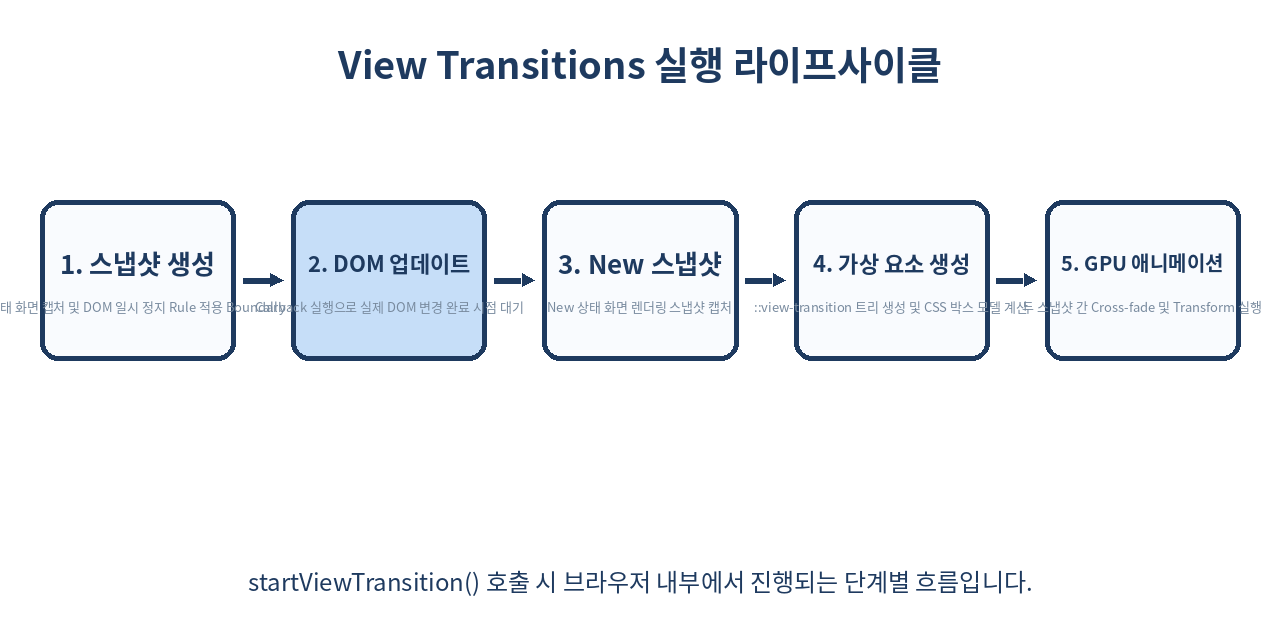
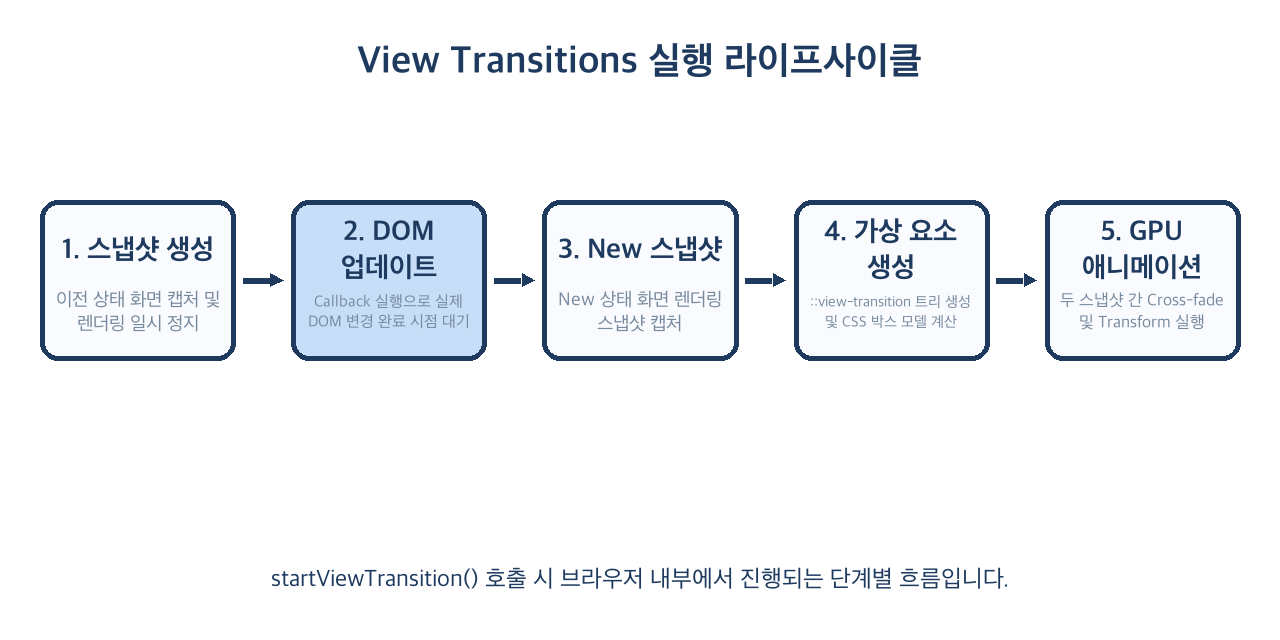
자동 발행 개선: 다이어그램 줄바꿈, 짧은 본문 보강 요청, pycache 제외
- draw_kit: wrap_text로 박스 밖 글자 넘침 방지, View Transitions 흐름도 재생성
- auto_post: 본문 15KB 미만이면 2차 요청으로 확장, 이미지 명세 로그 출력
- .gitignore 추가 및 커밋된 __pycache__ 제거

diff --git a/scripts/draw_kit.py b/scripts/draw_kit.py
@@ -119,6 +119,37 @@ def fit_size(d, s, max_w, size, bold=False, min_size=14, spacing=0):
     return size
 
 
+def wrap_text(d, cx, cy, s, max_w, size, color='navy', bold=False, min_size=15, max_lines=2, line_gap=1.3):
+    """max_w 안에 들어가도록 줄바꿈(최대 max_lines줄) + 축소, 그래도 넘치면 말줄임."""
+    def split(sz):
+        f = font(sz, bold)
+        lines, cur = [], ''
+        for word in s.split(' '):
+            t = (cur + ' ' + word).strip()
+            if d.textlength(t, font=f) <= max_w or not cur:
+                cur = t
+            else:
+                lines.append(cur)
+                cur = word
+        lines.append(cur)
+        return lines, f
+    sz = size
+    while True:
+        lines, f = split(sz)
+        if (len(lines) <= max_lines and all(d.textlength(l, font=f) <= max_w for l in lines)) or sz <= min_size:
+            break
+        sz -= 1
+    lines = lines[:max_lines]
+    for k, l in enumerate(lines):
+        while d.textlength(l, font=f) > max_w and len(l) > 1:
+            l = l[:-2] + '…'
+        lines[k] = l
+    h = sz * line_gap
+    y0 = cy - h * (len(lines) - 1) / 2
+    for k, l in enumerate(lines):
+        d.text((cx, y0 + k * h), l, font=f, fill=C.get(color, color), anchor='mm')
+
+
 def thumbnail_panel(d, lines, badge, caption):
     """가운데 흰 패널 + 영문 대문자 키워드 + 네이비 알약 배지 + 하단 한글 카피."""
     rrect(d, (528, 300, 1008, 732), 48, fill='white', outline='navy', width=12)
@@ -168,14 +199,14 @@ def flow_diagram(path, title, steps, caption):
         hl = (i == 1)
         rrect(d, (x, 200, x + bw, 360), 18, fill='pale' if hl else 'paper', outline='navy', width=5)
         lab = st.get('label', '')
-        text_c(d, x + bw / 2, 262, lab, fit_size(d, lab, bw - 30, 28, True), bold=True)
         sub = st.get('sub') or ''
+        wrap_text(d, x + bw / 2, 250 if sub else 280, lab, bw - 28, 28, bold=True, min_size=18)
         if sub:
-            text_c(d, x + bw / 2, 306, sub, fit_size(d, sub, bw - 30, 19), color='gray')
+            wrap_text(d, x + bw / 2, 312, sub, bw - 28, 19, color='gray', min_size=15)
         note = st.get('note') or ''
         if note:
             rrect(d, (x + 10, 430, x + bw - 10, 490), 14, fill='white', outline='green', width=4)
-            text_c(d, x + bw / 2, 460, note, fit_size(d, note, bw - 40, 20, True), color='green', bold=True)
+            wrap_text(d, x + bw / 2, 460, note, bw - 40, 20, color='green', bold=True, min_size=14, max_lines=1)
             arrow(d, (x + bw / 2, 428), (x + bw / 2, 366), color='green', width=4, head=12)
         if i < n - 1:
             arrow(d, (x + bw + 8, 280), (x + bw + gap - 8, 280), width=6, head=14)
@@ -190,16 +221,16 @@ def compare_diagram(path, title, left, right, caption):
     for x, side, color in [(60, left, 'red'), (680, right, 'green')]:
         rrect(d, (x, 110, x + 540, 540), 22, fill='paper', outline=color, width=5)
         t = side.get('title', '')
-        text_c(d, x + 270, 150, t, fit_size(d, t, 480, 32, True), color=color, bold=True)
+        wrap_text(d, x + 270, 150, t, 480, 32, color=color, bold=True, min_size=18, max_lines=1)
         rows = (side.get('rows') or [])[:3]
         for i, r in enumerate(rows):
             y = 196 + i * 88
             rrect(d, (x + 60, y, x + 480, y + 60), 14, fill='white', outline='navy', width=4)
-            text_c(d, x + 270, y + 30, r, fit_size(d, r, 390, 23), color='navy')
+            wrap_text(d, x + 270, y + 30, r, 390, 23, min_size=15, line_gap=1.15)
             if i < len(rows) - 1:
                 arrow(d, (x + 270, y + 62), (x + 270, y + 86), width=4, head=12)
         res = side.get('result', '')
         rrect(d, (x + 110, 470, x + 430, 520), 25, fill=color)
-        text_c(d, x + 270, 495, res, fit_size(d, res, 290, 24, True), color='white', bold=True)
+        wrap_text(d, x + 270, 495, res, 290, 24, color='white', bold=True, min_size=15, max_lines=1)
     text_c(d, 640, 592, caption, fit_size(d, caption, 1180, 24), color='navy')
     img.save(path)

diff --git a/scripts/auto_post.py b/scripts/auto_post.py
@@ -118,14 +118,18 @@ def build_prompt(today, readme):
 """
 
 
-def call_gemini(prompt):
+def call_gemini(prompt, schema=None, prefer=None):
+    """(응답 텍스트, 사용한 모델) 반환. schema가 있으면 JSON 모드."""
     key = os.environ['GEMINI_API_KEY']
     models = [m.strip() for m in os.environ.get('GEMINI_MODELS', DEFAULT_MODELS).split(',') if m.strip()]
-    body = json.dumps({
-        'contents': [{'role': 'user', 'parts': [{'text': prompt}]}],
-        'generationConfig': {'responseMimeType': 'application/json', 'responseSchema': SCHEMA,
-                             'temperature': 0.9, 'maxOutputTokens': 32768},
-    }).encode()
+    if prefer in models:
+        models.remove(prefer)
+        models.insert(0, prefer)
+    config = {'temperature': 0.9, 'maxOutputTokens': 32768}
+    if schema:
+        config.update(responseMimeType='application/json', responseSchema=schema)
+    body = json.dumps({'contents': [{'role': 'user', 'parts': [{'text': prompt}]}],
+                       'generationConfig': config}).encode()
     for model in models:
         url = f'https://generativelanguage.googleapis.com/v1beta/models/{model}:generateContent'
         for attempt in range(2):
@@ -151,8 +155,24 @@ def call_gemini(prompt):
                 print(f'[{model}] 빈 응답 (finishReason={cand.get("finishReason")})')
                 break
             print(f'[{model}] 응답 {len(text)}자, usage={data.get("usageMetadata")}')
-            return json.loads(text)
+            return text, model
     sys.exit('모든 모델 호출 실패')
+
+
+def expand_body(body, title, model):
+    """본문이 README 기준(15KB)보다 짧으면 한 번 더 요청해 보강. 실패하면 원본 유지."""
+    prompt = f"""아래는 기술 블로그 글 '{title}'의 마크다운 초안이다. 분량이 부족하다.
+구조(제목, 인용구, 목차, 섹션 번호·이모지, `{{{{DIAGRAM_n}}}}` 자리표시자)는 그대로 유지하면서
+각 섹션에 실무 예제 코드(언어 태그 포함), 비교표, 함정 사례, 구체적 수치·설정 예시를 보강해 한국어 기준 18~22KB로 확장하라.
+사실이 불확실한 API는 추가하지 말 것. 설명 없이 **확장된 마크다운 본문만** 출력한다.
+
+{body}"""
+    try:
+        text, _ = call_gemini(prompt, prefer=model)
+    except SystemExit:
+        return body
+    text = re.sub(r'\A```(?:markdown|md)?\n|\n```\s*\Z', '', text.strip())
+    return text if len(text.encode()) > len(body.encode()) and text.lstrip().startswith('#') else body
 
 
 def update_readme(readme, area, topic, candidate):
@@ -183,7 +203,12 @@ def main():
     if os.environ.get('DRY_RUN_JSON'):
         post = json.loads(read(os.environ['DRY_RUN_JSON']))
     else:
-        post = call_gemini(build_prompt(today, readme))
+        text, model = call_gemini(build_prompt(today, readme), schema=SCHEMA)
+        post = json.loads(text)
+        print('spec:', json.dumps({k: v for k, v in post.items() if k != 'body'}, ensure_ascii=False))
+        if len(post['body'].encode()) < 15000:
+            print(f'본문 {len(post["body"].encode())} bytes → 보강 요청')
+            post['body'] = expand_body(post['body'], post['title'], model)
 
     slug = re.sub(r'[^a-z0-9-]', '-', post['slug'].lower()).strip('-')
     slug = re.sub(r'-{2,}', '-', slug)

diff --git a/blog-front/contents/view-transitions-api-guide.md b/blog-front/contents/view-transitions-api-guide.md
@@ -20,7 +20,7 @@ comments: true
 4. 🌐 MPA(Multi-Page Application) 간 Cross-Document View Transitions
 5. 🎨 `view-transition-name`을 활용한 요소 단위 전환 (Hero Animation)
 6. 📊 기존 애니메이션 솔루션과의 비교
-7. 🛠 프레임워크(React / Next.js) 통합 및 커스텀 CSS 커스스터마이징
+7. 🛠 프레임워크(React / Next.js) 통합 및 커스텀 CSS 커스터마이징
 8. ⚠ 실무 함정 1: 레이아웃 스태킹 및 z-index context 꼬임 현상
 9. ⚠ 실무 함정 2: 비동기 데이터 패칭 및 DOM 업데이트 타이밍 미스
 10. 🚫 사용을 피해야 하는 상황과 성능 안티 패턴
